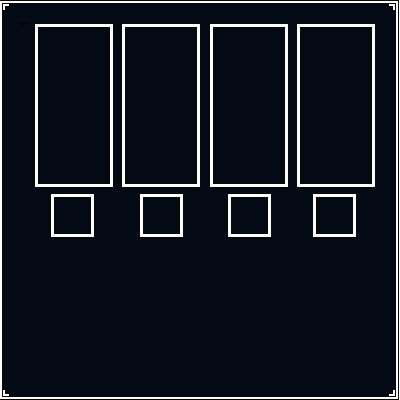
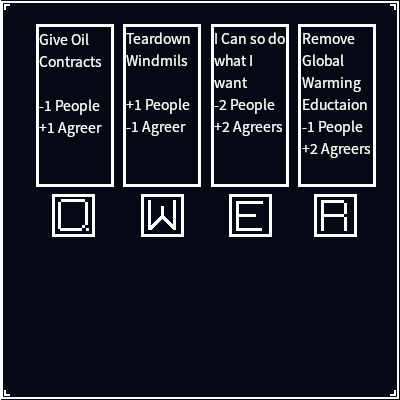
Globals + Policy

diff --git a/main.py b/main.py
@@ -74,18 +74,28 @@ def lose():
 
 #Policies
 def oilContracts():
+    global townspeople
+    global agreers
     townspeople = townspeople - 1
     agreers = agreers + 1
 
 def teardownWindmills():
+    global townspeople
+    global agreers
     townspeople = townspeople + 1
     agreers = agreers - 1
 
 def ICanSo():
+    global townspeople
+    global agreers
+    global message
     townspeople = townspeople - 2
     agreers = agreers + 2
+    message = "You cant stop me I'm the king"
 
 def RemoveEducation():
+    global townspeople
+    global agreers
     townspeople = townspeople - 1 
     agreers = agreers + 2
 
@@ -202,7 +212,15 @@ while running:
                 screen.blit(policyBackground, (200, 125))
                 if keys[pygame.K_p]:
                     policySelect = False
-                print("Policy Time")
+                if keys[pygame.K_q]:
+                    oilContracts()
+                if keys[pygame.K_w]:
+                    teardownWindmills()
+                if keys[pygame.K_e]:
+                    ICanSo()
+                if keys[pygame.K_r]:
+                    RemoveEducation()
+#                print("Policy Time")
                 pygame.display.update()
                 clock.tick(60)
 
